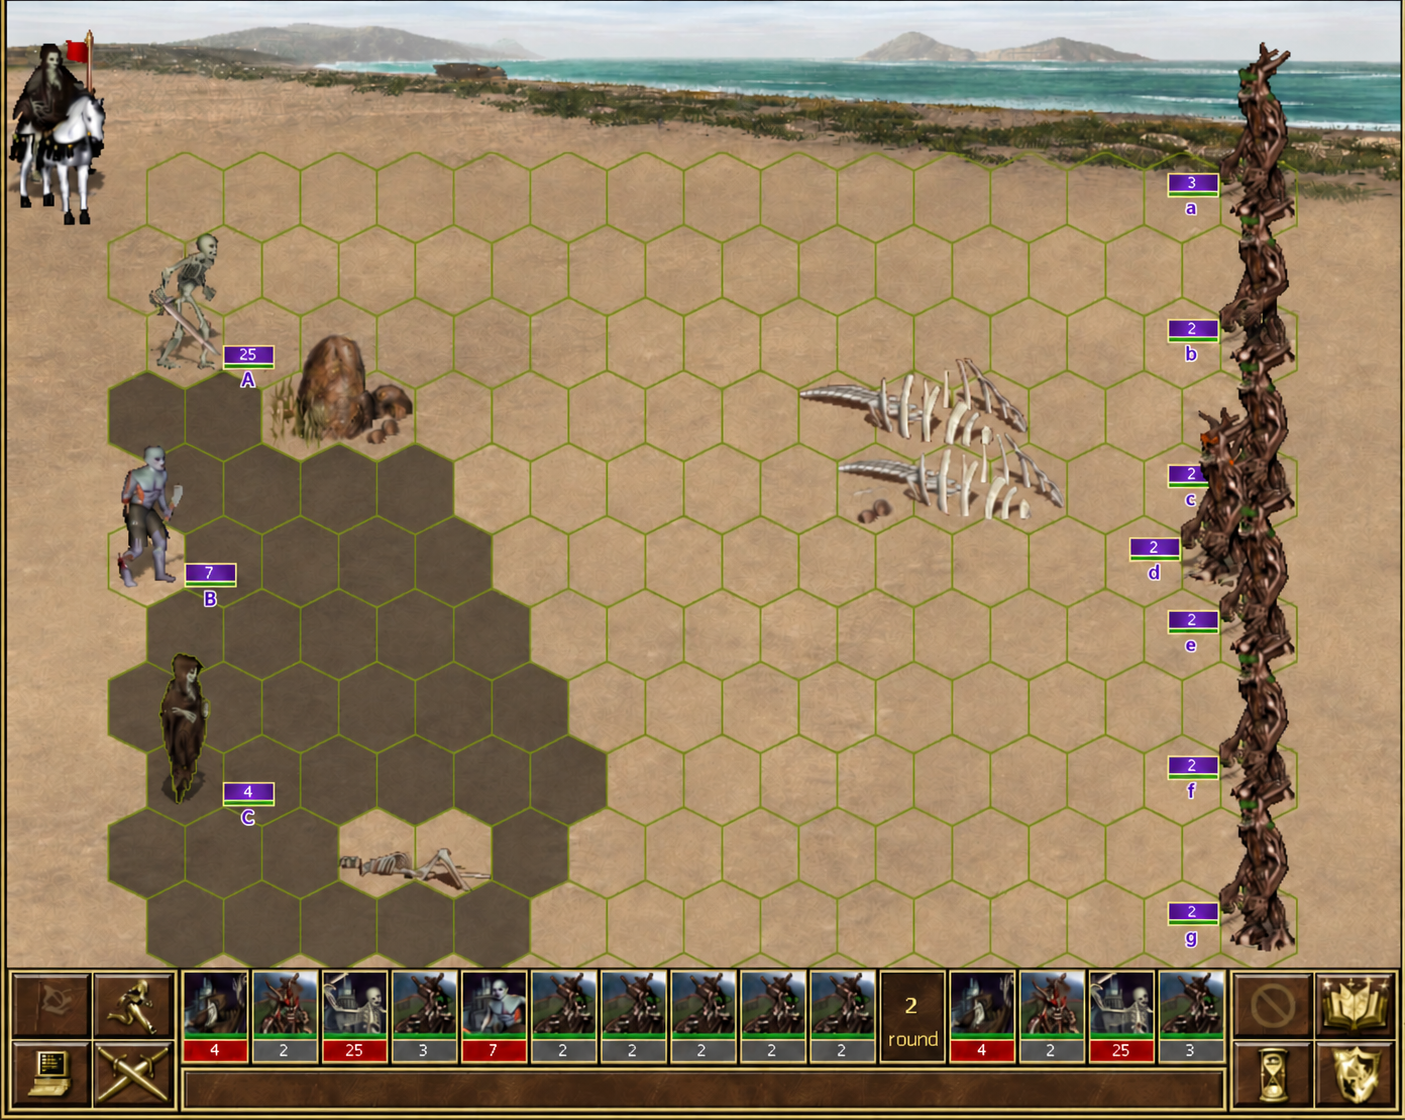
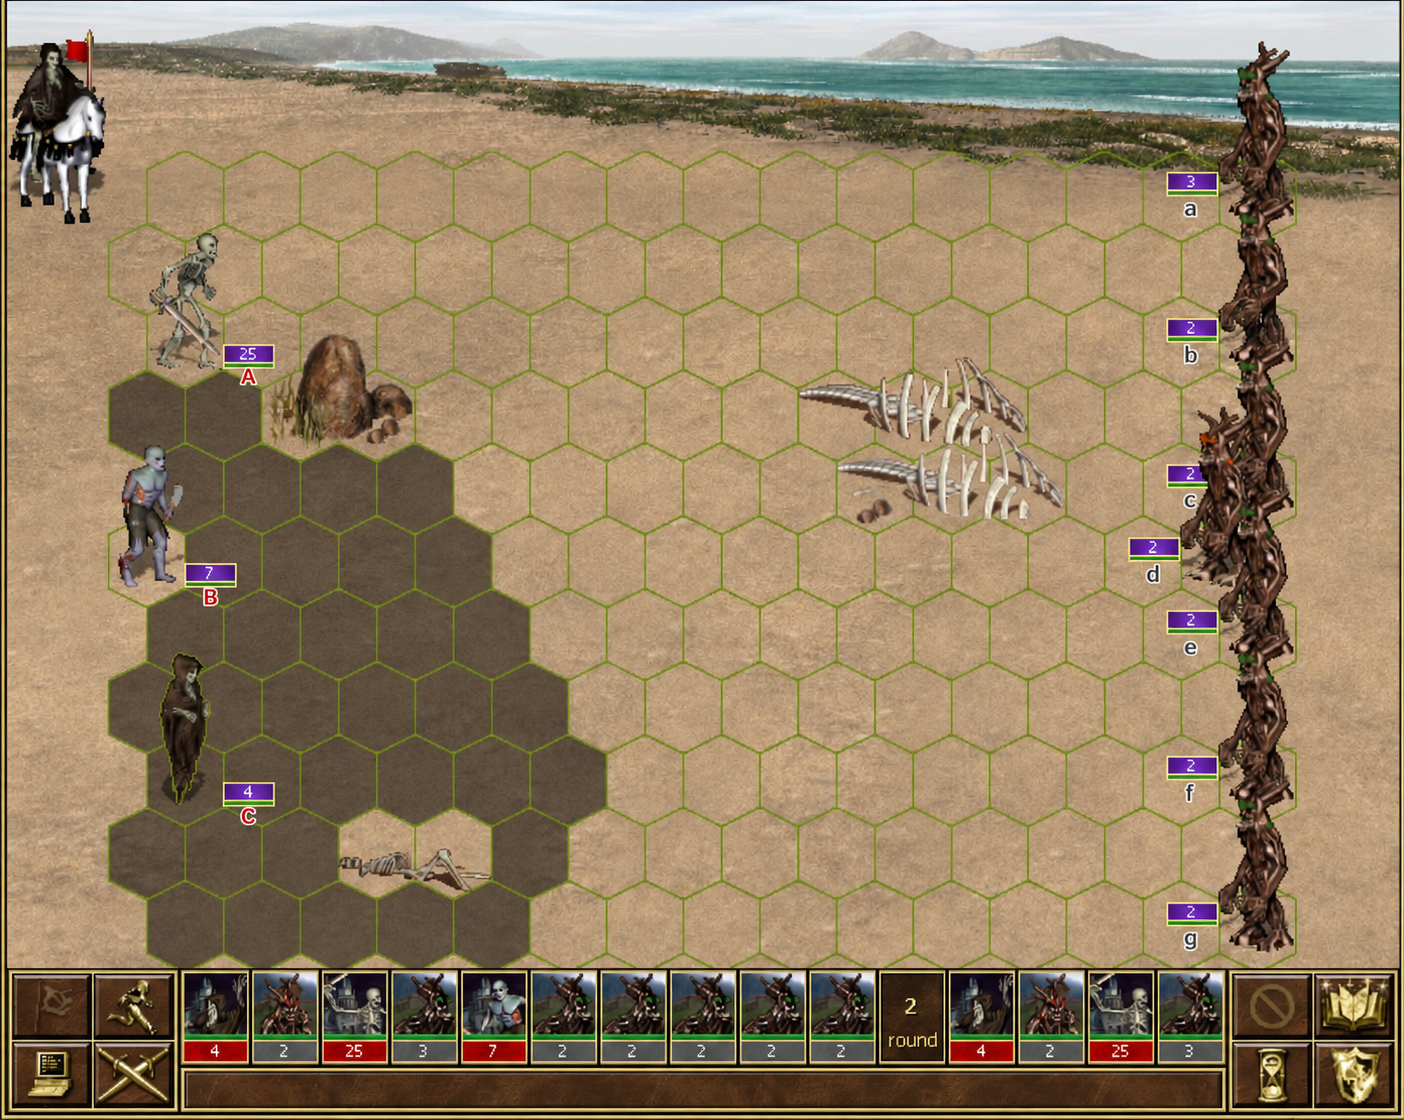
docs: add save date and stack label mockups

diff --git a/hip-0029.md b/hip-0029.md
@@ -2,9 +2,13 @@
 
 > **Category:** Combat UI
 
-Assign a stable, unique, single-character label to every `creature stack`: uppercase `A`–`T` for the attacking army and lowercase `a`–`t` for the defending army. Assign the next available label to every stack created during combat, including `Demons` summoned by `Pit Lords`, `Air Elementals`, `Earth Elementals`, `Fire Elementals`, and `Water Elementals` summoned by `spells`, and `Fangarms` raised by the `Horn of the Abyss` artifact. Annotate every `creature stack` with its label.
+Assign a stable, unique, single-character label to every `creature stack`: uppercase `A`–`T` for the attacking army and lowercase `a`–`t` for the defending army. Assign the next available label to every stack created during combat, including `Demons` summoned by `Pit Lords`, `Fangarms` raised by the `Horn of the Abyss` artifact, and `Elementals` summoned by `spells`. Annotate every `creature stack` with its label.
 
-Render the label as part of the stack's battlefield presentation, not only in the **combat log**, a tooltip, or another secondary view. Place it immediately below the stack's hit-point bar and use the same font size as the visible creature-count number. Fill the letter with the same blue-purple color used behind that number and add a white outline around the glyph so it remains legible against every battlefield background.
+Render the label as part of the stack's battlefield presentation, not only in the **combat log**, a tooltip, or another secondary view.
+
+Allow players to toggle the labels' persistent visibility. While the labels are hidden, holding `Alt` during combat temporarily reveals them.
+
+Place it 2 pixels below the stack's hit-point bar and use a font two size steps smaller than the visible creature-count number. Color the letter using the controlling player's color, matching the color used for that stack in the battle queue. Use gray for neutral wandering monsters when there is no opposing hero. Add a white outline around the glyph so it remains legible against every battlefield background.
 
 ![Proof of concept showing stack labels below the hit-point bars](assets/hip-0029-stack-labels-poc.png)
 

diff --git a/hip-0002.md b/hip-0002.md
@@ -2,6 +2,8 @@
 
 > **Category:** Main menu UI
 
-Add a sortable **save date** column to the **Load Game** and **Save Game** screens.
+Add a sortable **Save Date** column to the **Load Game** and **Save Game** screens. Display each date using the `YYYY-MM-DD` format. Expand the dialog proportionally to accommodate the column without compressing or distorting the existing content.
+
+![Proof of concept showing the Save Date column](assets/hip-0002-save-date-column-poc.png)
 
 > **Author:** Alexander Cyon · **Date:** 2026-10-10 · **Status:** **DRAFT** · **Estimate:** **Average**
